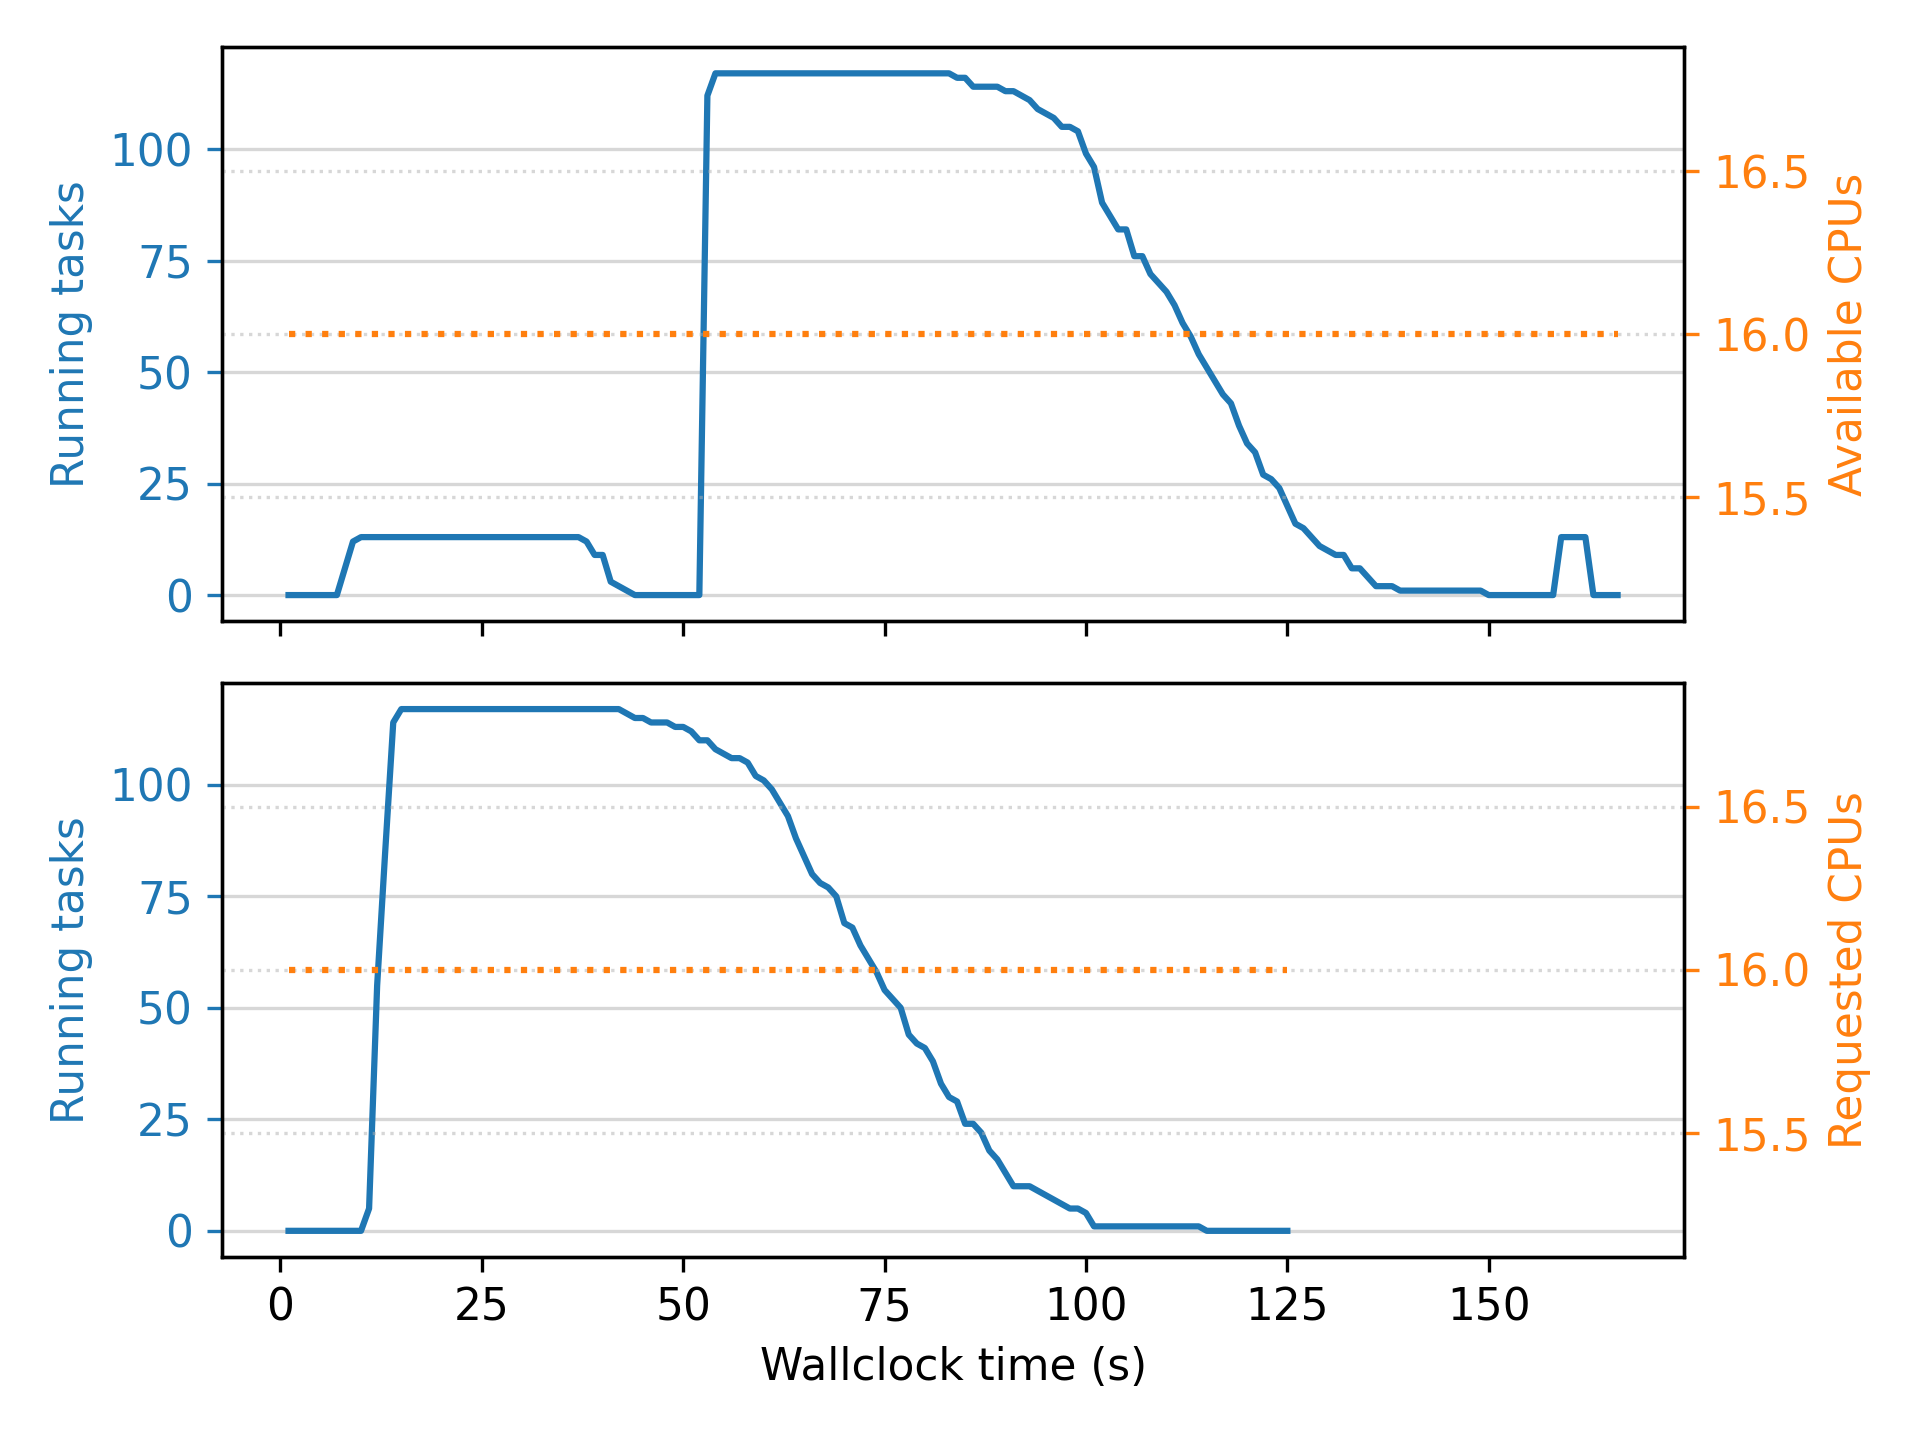
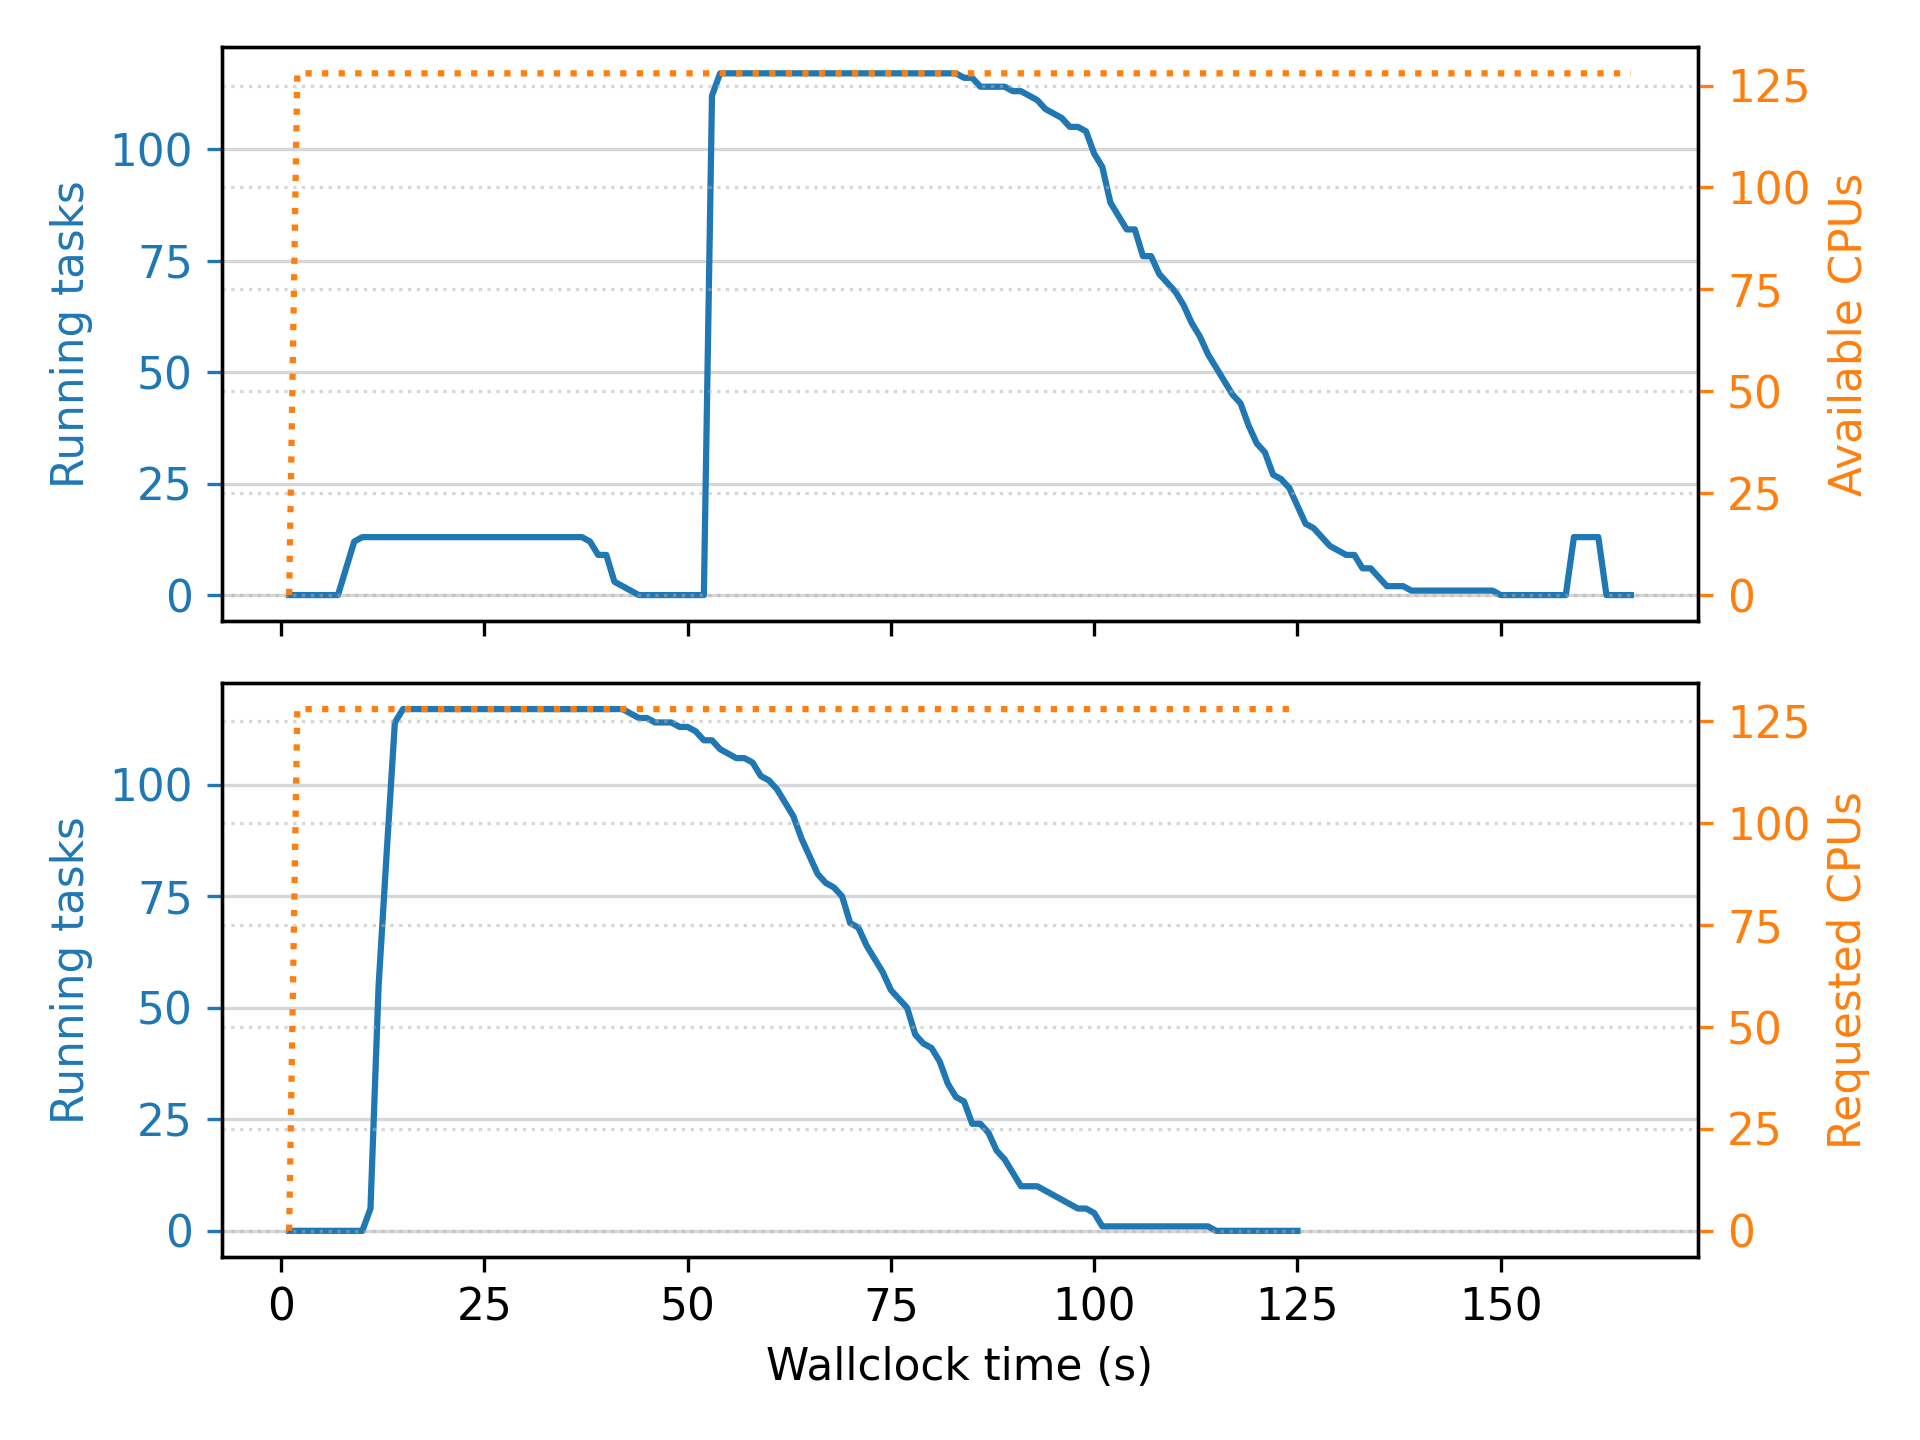
Fix plot

diff --git a/plots/lithops_ec2_compare.py b/plots/lithops_ec2_compare.py
@@ -20,7 +20,7 @@ matplotlib.rcParams['ps.fonttype'] = 42
 logs1 = ['geospatial/ray_/naive_quarter_zeroworkers.txt']
 logs2 = ['geospatial/ray_/co_quarter_zeroworkers.txt']
 
-WORKER_NODE_CPUS = 16
+WORKER_NODE_CPUS = 16 * 8
 
 
 def parse_entry(line, group_id=None):
@@ -119,6 +119,7 @@ def lithops_parse_logs(func_logs, orch_logs):
             for i in range(len(times_X)):
                 if i >= t:
                     avail_cpus_X[i] += val
+    avail_cpus_X[0] = 0
 
     scaleup_events = []
     # for evt, t, val in lithops_events:
@@ -137,8 +138,8 @@ def lithops_parse_logs(func_logs, orch_logs):
 
 
 if __name__ == '__main__':
-    naive_dir = 'geospatial/lithops_/naive_lithops_ec2_quarter/'
-    # naive_dir = 'geospatial/lithops_/naive_lithops_ec2_quarter_allworkers/'
+    # naive_dir = 'geospatial/lithops_/naive_lithops_ec2_quarter/'
+    naive_dir = 'geospatial/lithops_/naive_lithops_ec2_quarter_allworkers/'
 
     naive_logs = []
     naive_orch = []
@@ -155,8 +156,8 @@ if __name__ == '__main__':
 
     print(f'Total naive time: {naive_res.total}')
 
-    co_dir = 'geospatial/lithops_/co_lithops_ec2_quarter/'
-    # co_dir = 'geospatial/lithops_/co_lithops_ec2_quarter_allworkers/'
+    # co_dir = 'geospatial/lithops_/co_lithops_ec2_quarter/'
+    co_dir = 'geospatial/lithops_/co_lithops_ec2_quarter_allworkers/'
 
     co_logs = []
     co_orch = []
@@ -236,4 +237,4 @@ if __name__ == '__main__':
         ax2.legend(handles, labels)
 
     fig.tight_layout()
-    fig.savefig(f'lithops_ec2_compare.png', dpi=300)
+    fig.savefig(f'lithops_ec2_compare_allworkers.png', dpi=300)
